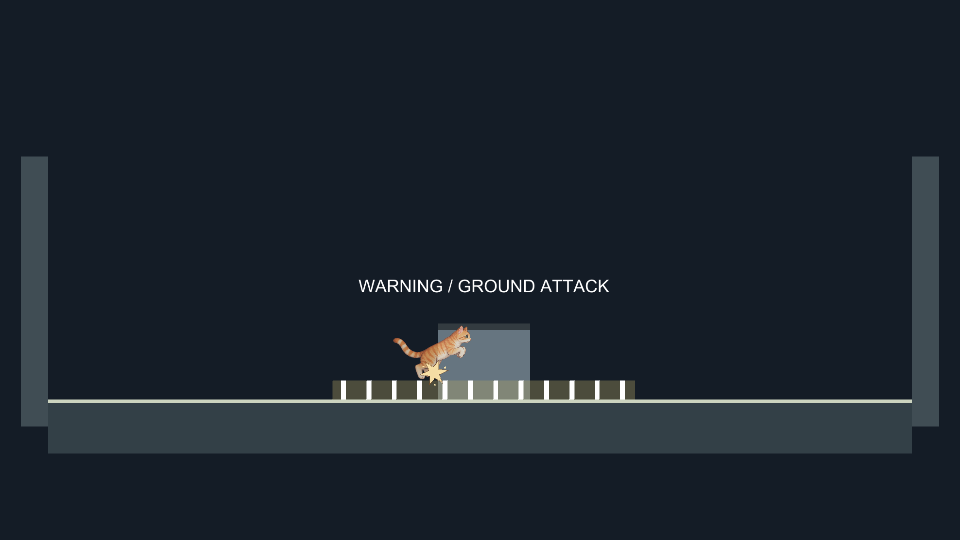
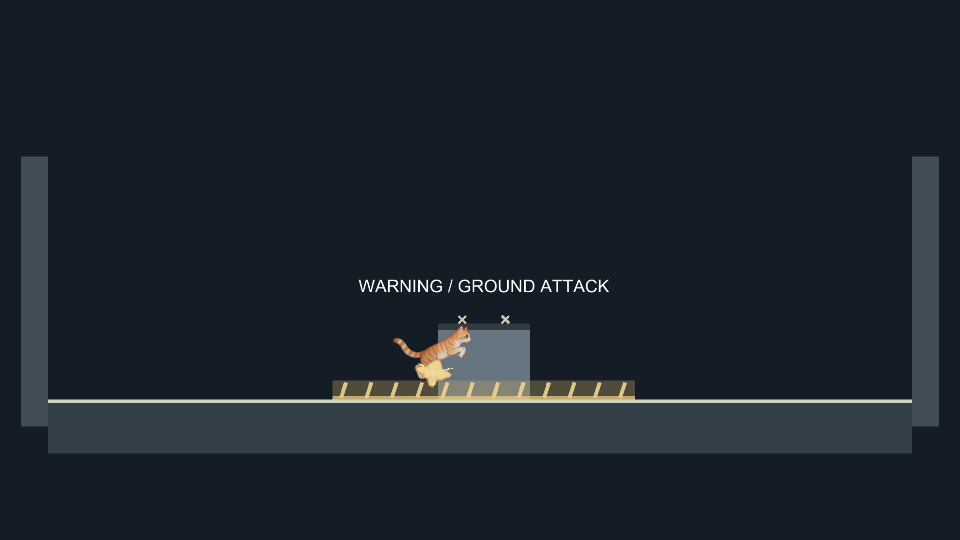
feat: clarify stomp attack signals and soften impact feedback

Changed region(s): [[0.3438, 0.6519, 0.6562, 0.7407]]

diff --git a/Assets/Game/Scripts/StompArena.cs b/Assets/Game/Scripts/StompArena.cs
@@ -11,10 +11,16 @@ public sealed class StompArena : MonoBehaviour
     public Camera ArenaCamera { get; private set; }
     Sprite square;
     Texture2D texture;
-    SpriteRenderer boss, head, warning, impact;
+    SpriteRenderer boss, head, warning;
+    MeshRenderer impact;
+    Material successCream;
     SpriteRenderer playerSprite;
     Color playerColor;
     TextMesh phaseLabel;
+    readonly SpriteRenderer[] headArrows = new SpriteRenderer[4];
+    readonly SpriteRenderer[] headLocks = new SpriteRenderer[4];
+    readonly SpriteRenderer[] attackMarks = new SpriteRenderer[10];
+    SpriteRenderer warningEdge;
     readonly System.Collections.Generic.List<SpriteRenderer> stripes = new System.Collections.Generic.List<SpriteRenderer>();
     Rigidbody2D body;
     Vector2 previous;
@@ -50,8 +56,18 @@ public sealed class StompArena : MonoBehaviour
             stripe.sortingOrder = 3;
             stripes.Add(stripe);
         }
-        impact = Block("Impact flash", Vector2.zero, Vector2.one * .3f, Color.white);
-        impact.sortingOrder = 5;
+        warningEdge = Block("Attack footprint edge", new Vector2(0, .035f), new Vector2(5.6f, .07f), Color.white);
+        warningEdge.sortingOrder = 4;
+        for (int i = 0; i < attackMarks.Length; i++) {
+            attackMarks[i] = Block("Active ground strike", Vector2.zero, Vector2.one, Color.white);
+            attackMarks[i].sortingOrder = 4;
+        }
+        for (int i = 0; i < 4; i++) {
+            headArrows[i] = Block("Open head chevron", Vector2.zero, new Vector2(.22f, .055f), Color.white);
+            headArrows[i].sortingOrder = 4;
+            headLocks[i] = Block("Closed head cross", Vector2.zero, new Vector2(.2f, .045f), Color.white);
+            headLocks[i].sortingOrder = 4;
+        }
         phaseLabel = new GameObject("Phase label").AddComponent<TextMesh>();
         phaseLabel.transform.SetParent(transform, false);
         phaseLabel.transform.localPosition = new Vector3(0, 2.1f);
@@ -134,6 +150,7 @@ public sealed class StompArena : MonoBehaviour
     void FixedUpdate()
     {
         if (Run.Paused) return;
+        flash = Mathf.Max(0, flash - Time.fixedDeltaTime);
         damageFlash = Mathf.Max(0, damageFlash - Time.fixedDeltaTime);
         burstTime = Mathf.Max(0, burstTime - Time.fixedDeltaTime);
         if (Combat.Finished) { Present(); return; }
@@ -164,7 +181,6 @@ public sealed class StompArena : MonoBehaviour
         previousTargetX = Combat.TargetX;
         Combat.Advance(Time.fixedDeltaTime);
         Run.Advance(Time.fixedDeltaTime);
-        flash = Mathf.Max(0, flash - Time.fixedDeltaTime);
         Present();
     }
     public void Retry() { Cat.RespawnAt(transform.TransformPoint(Run.Retry())); previous = transform.InverseTransformPoint(body.position); Present(); }
@@ -199,8 +215,10 @@ public sealed class StompArena : MonoBehaviour
         head.color = open ? Color.white : new Color(.2f, .23f, .25f);
         warning.enabled = !Combat.Finished && !open;
         warning.color = active ? new Color(1, .35f, .2f) : new Color(.7f, .65f, .4f, .35f);
-        foreach (var stripe in stripes) stripe.enabled = warning.enabled && !active;
+        PresentCombatSignals(open, active);
         impact.enabled = flash > 0;
+        impact.transform.localScale = new Vector3(Mathf.Lerp(.8f, .38f, flash / .16f), .35f, 1);
+        successCream.color = new Color(1, .95f, .74f, Mathf.Clamp01(flash / .1f));
         phaseLabel.text = Combat.Finished ? (Combat.BossHealth == 0 ? "TARGET DEFEATED" : "TRY AGAIN")
             : open ? "OPEN HEAD / JUMP NOW" : active ? "ATTACK / GROUND UNSAFE" : "WARNING / GROUND ATTACK";
     }
@@ -221,31 +239,46 @@ public sealed class StompArena : MonoBehaviour
     }
     void CreateDamageBurst()
     {
-        burstMesh = new Mesh { name = "Original six-point contact star" };
+        burstMesh = new Mesh { name = "Original soft irregular impact brush" };
         burstCream = new Material(Shader.Find("Sprites/Default"));
         burstBrown = new Material(Shader.Find("Sprites/Default"));
-        var vertices = new Vector3[13];
-        var triangles = new int[36];
-        // Uneven six-point outline: original geometry, not a borrowed explosion sprite.
-        for (int i = 0; i < 12; i++) {
-            float angle = (i * 30 + 9) * Mathf.Deg2Rad;
-            float radius = i % 2 == 0 ? .48f - (i % 3) * .025f : .19f;
-            vertices[i + 1] = new Vector2(Mathf.Cos(angle), Mathf.Sin(angle)) * radius;
-            triangles[i * 3] = 0;
-            triangles[i * 3 + 1] = (i + 1);
-            triangles[i * 3 + 2] = ((i + 1) % 12 + 1);
+        const int segments = 32;
+        var vertices = new Vector3[1 + segments * 2];
+        var colors = new Color[vertices.Length];
+        var triangles = new int[segments * 9];
+        colors[0] = Color.white;
+        // Opaque irregular center with a feathered rim; no repeated geometric star tips.
+        for (int i = 0; i < segments; i++) {
+            float angle = i * Mathf.PI * 2 / segments;
+            float radius = .24f + .17f * Mathf.Pow(Mathf.Abs(Mathf.Cos(2 * angle + .2f)), 5)
+                + .025f * Mathf.Sin(7 * angle);
+            Vector3 direction = new Vector3(Mathf.Cos(angle), Mathf.Sin(angle));
+            vertices[1 + i] = direction * radius;
+            vertices[1 + segments + i] = direction * (radius + .085f);
+            colors[1 + i] = new Color(1, .96f, .84f, .92f);
+            colors[1 + segments + i] = new Color(1, .88f, .65f, 0);
+            int next = (i + 1) % segments;
+            int t = i * 9;
+            triangles[t] = 0; triangles[t + 1] = 1 + i; triangles[t + 2] = 1 + next;
+            triangles[t + 3] = 1 + i; triangles[t + 4] = 1 + segments + i; triangles[t + 5] = 1 + next;
+            triangles[t + 6] = 1 + next; triangles[t + 7] = 1 + segments + i; triangles[t + 8] = 1 + segments + next;
         }
         burstMesh.vertices = vertices;
+        burstMesh.colors = colors;
         burstMesh.triangles = triangles;
         burstMesh.uv = new Vector2[vertices.Length];
         burstMesh.RecalculateBounds();
-        damageBurst = new GameObject("Damage contact star").transform;
+        damageBurst = new GameObject("Soft damage contact burst").transform;
         damageBurst.SetParent(transform, false);
-        burstOutline = BurstPart("Warm outline", 6);
+        burstOutline = BurstPart("Warm impact rim", 6);
         burstOutline.sharedMaterial = burstBrown;
         burstOutline.transform.localScale = Vector3.one * 1.12f;
-        burstFill = BurstPart("Cream impact star", 7);
-        for (int i = 0; i < sparks.Length; i++) sparks[i] = BurstPart("Small impact spark", 7);
+        burstFill = BurstPart("Cream impact brush", 7);
+        for (int i = 0; i < sparks.Length; i++) sparks[i] = BurstPart("Short impact brush stroke", 7);
+        impact = BurstPart("Successful head impact brush", 5);
+        impact.transform.SetParent(transform, false);
+        successCream = new Material(burstCream);
+        impact.sharedMaterial = successCream;
     }
     MeshRenderer BurstPart(string name, int order)
     {
@@ -263,13 +296,60 @@ public sealed class StompArena : MonoBehaviour
         if (burstTime <= 0) return;
         float t = 1 - burstTime / DamageBurstDuration;
         float alpha = 1 - t * t;
-        damageBurst.localScale = Vector3.one * Mathf.Lerp(.38f, .66f, Mathf.Sqrt(t));
+        float opening = Mathf.SmoothStep(0, 1, Mathf.Clamp01(t / .3f));
+        damageBurst.localScale = new Vector3(Mathf.Lerp(.34f, .76f, opening), Mathf.Lerp(.48f, .58f, opening), 1);
+        damageBurst.localRotation = Quaternion.Euler(0, 0, Mathf.Lerp(-12, 7, t));
         burstCream.color = new Color(1, .91f, .68f, alpha);
-        burstBrown.color = new Color(.48f, .31f, .16f, alpha * .8f);
+        burstBrown.color = new Color(.48f, .31f, .16f, alpha * .45f);
         for (int i = 0; i < sparks.Length; i++) {
             float angle = (i * 125 + 25) * Mathf.Deg2Rad;
-            sparks[i].transform.localPosition = new Vector3(Mathf.Cos(angle), Mathf.Sin(angle), 0) * Mathf.Lerp(.34f, .68f, t);
-            sparks[i].transform.localScale = Vector3.one * Mathf.Lerp(.14f, .04f, t);
+            sparks[i].transform.localPosition = new Vector3(Mathf.Cos(angle), Mathf.Sin(angle), 0) * Mathf.Lerp(.26f, .66f, t);
+            sparks[i].transform.localScale = new Vector3(Mathf.Lerp(.09f, .025f, t), Mathf.Lerp(.4f - i * .06f, .12f, t), 1);
+            sparks[i].transform.localRotation = Quaternion.Euler(0, 0, angle * Mathf.Rad2Deg - 90);
+        }
+    }
+    void PresentCombatSignals(bool open, bool active)
+    {
+        float x = Combat.TargetX;
+        bool live = !Combat.Finished;
+        float progress = Mathf.Clamp01(Combat.PhaseTime / Combat.Duration);
+        // The integrated phase clock accelerates warning pulses without a phase reset.
+        float pulse = .5f + .5f * Mathf.Sin(Mathf.PI * 2 * (2 * Combat.PhaseTime + 3 * Combat.PhaseTime * progress));
+        warning.color = active ? new Color(.95f, .44f, .22f, .85f)
+            : new Color(.73f, .64f, .39f, .15f + pulse * .24f);
+        warningEdge.enabled = live && !open;
+        warningEdge.transform.localPosition = new Vector3(x, .035f);
+        warningEdge.color = active ? new Color(1, .9f, .64f) : new Color(.92f, .8f, .52f, .3f + .5f * pulse);
+        for (int i = 0; i < stripes.Count; i++) {
+            var stripe = stripes[i];
+            stripe.enabled = live && !open && !active;
+            stripe.transform.localPosition = new Vector3(x - 2.6f + i * .47f, .175f);
+            stripe.transform.localScale = new Vector3(.07f + .035f * progress, .3f, 1);
+            stripe.transform.localRotation = Quaternion.Euler(0, 0, -18);
+            stripe.color = new Color(.95f, .84f, .59f, .35f + .6f * pulse);
+        }
+        for (int i = 0; i < attackMarks.Length; i++) {
+            var mark = attackMarks[i];
+            mark.enabled = live && active;
+            // Entire stroke stays inside the actual 0..0.35-high collision band.
+            float height = Mathf.Lerp(.32f, .12f, progress) * (i % 2 == 0 ? 1 : .75f);
+            mark.transform.localPosition = new Vector3(x - 2.5f + i * .55f, height * .5f);
+            mark.transform.localScale = new Vector3(.055f, height, 1);
+            mark.color = new Color(1, .91f, .7f, 1 - .3f * progress);
+        }
+        for (int i = 0; i < 4; i++) {
+            var arrow = headArrows[i];
+            arrow.enabled = live && open;
+            int pair = i / 2;
+            float bob = .035f * Mathf.Sin(Combat.PhaseTime * 9);
+            arrow.transform.localPosition = new Vector3(x + (pair == 0 ? -.4f : .4f) + (i % 2 == 0 ? -.075f : .075f), 1.7f + bob);
+            arrow.transform.localRotation = Quaternion.Euler(0, 0, i % 2 == 0 ? -35 : 35);
+            arrow.color = new Color(1, .92f, .7f);
+            var cross = headLocks[i];
+            cross.enabled = live && !open;
+            cross.transform.localPosition = new Vector3(x + (pair == 0 ? -.4f : .4f), 1.48f);
+            cross.transform.localRotation = Quaternion.Euler(0, 0, i % 2 == 0 ? -45 : 45);
+            cross.color = new Color(.78f, .78f, .7f);
         }
     }
     void OnDisable()
@@ -278,7 +358,7 @@ public sealed class StompArena : MonoBehaviour
     }
     void OnDestroy()
     {
-        if (Application.isPlaying) { Destroy(square); Destroy(texture); Destroy(damageMaterial); Destroy(burstMesh); Destroy(burstCream); Destroy(burstBrown); }
-        else { DestroyImmediate(square); DestroyImmediate(texture); DestroyImmediate(damageMaterial); DestroyImmediate(burstMesh); DestroyImmediate(burstCream); DestroyImmediate(burstBrown); }
+        if (Application.isPlaying) { Destroy(square); Destroy(texture); Destroy(damageMaterial); Destroy(burstMesh); Destroy(burstCream); Destroy(burstBrown); Destroy(successCream); }
+        else { DestroyImmediate(square); DestroyImmediate(texture); DestroyImmediate(damageMaterial); DestroyImmediate(burstMesh); DestroyImmediate(burstCream); DestroyImmediate(burstBrown); DestroyImmediate(successCream); }
     }
 }

diff --git a/Assets/Game/Tests/Editor/StompCombatTests.cs b/Assets/Game/Tests/Editor/StompCombatTests.cs
@@ -212,4 +212,41 @@ public class StompCombatTests
             previousX = x;
         }
     }
+    [Test] public void SignalsFollowTheExactAttackAndRecoveryState()
+    {
+        var root = new GameObject("Stomp signal state test");
+        try {
+            var arenaType = type.Assembly.GetType("StompArena");
+            var arena = root.AddComponent(arenaType);
+            var flags = System.Reflection.BindingFlags.Instance | System.Reflection.BindingFlags.NonPublic;
+            arenaType.GetMethod("Awake", flags).Invoke(arena, null);
+            var cat = (Component)arenaType.GetProperty("Cat").GetValue(arena);
+            cat.GetType().GetMethod("Awake", flags).Invoke(cat, null);
+            var input = cat.GetComponent(type.Assembly.GetType("CatInput"));
+            input.GetType().GetMethod("Awake", flags).Invoke(input, null);
+            var state = arenaType.GetField("Combat").GetValue(arena);
+            var present = arenaType.GetMethod("Present", flags);
+            var arrows = (SpriteRenderer[])arenaType.GetField("headArrows", flags).GetValue(arena);
+            var locks = (SpriteRenderer[])arenaType.GetField("headLocks", flags).GetValue(arena);
+            var marks = (SpriteRenderer[])arenaType.GetField("attackMarks", flags).GetValue(arena);
+            Assert.That(locks.All(r => r.enabled), Is.True);
+            Assert.That(arrows.Any(r => r.enabled) || marks.Any(r => r.enabled), Is.False);
+            type.GetMethod("Advance").Invoke(state, new object[] { 1.2f });
+            present.Invoke(arena, null);
+            Assert.That(marks.All(r => r.enabled), Is.True);
+            foreach (var mark in marks) {
+                float half = mark.transform.localScale.y * .5f;
+                Assert.That(mark.transform.localPosition.y - half, Is.GreaterThanOrEqualTo(0));
+                Assert.That(mark.transform.localPosition.y + half, Is.LessThanOrEqualTo(.35f));
+            }
+            type.GetMethod("Advance").Invoke(state, new object[] { .351f });
+            present.Invoke(arena, null);
+            Assert.That(arrows.All(r => r.enabled), Is.True);
+            Assert.That(locks.Any(r => r.enabled) || marks.Any(r => r.enabled), Is.False);
+            arenaType.GetMethod("Retry").Invoke(arena, null);
+            Assert.That(locks.All(r => r.enabled), Is.True);
+            Assert.That(arrows.Any(r => r.enabled), Is.False);
+        } finally { UnityEngine.Object.DestroyImmediate(root); }
+    }
+
 }

diff --git a/Assets/Game/Editor/StompReview.cs b/Assets/Game/Editor/StompReview.cs
@@ -62,13 +62,13 @@ public static class StompReview
                 File.WriteAllBytes("docs/design/stomp-prototype/" + phase + ".png", pixels.EncodeToPNG());
                 arena.Combat.Advance(phase == "anticipation" ? StompCombat.Anticipation : StompCombat.Active);
             }
-            foreach (var scenario in new[] { "left", "right", "closed-head", "ground", "moving-head", "run-right", "run-left" }) {
+            foreach (var scenario in new[] { "left", "right", "closed-head", "ground", "moving-head", "run-right", "run-left", "signals" }) {
                 arena.Retry();
                 arena.Cat.GetComponent<CatInput>().enabled = false;
                 var body = arena.Cat.GetComponent<Rigidbody2D>();
                 body.interpolation = RigidbodyInterpolation2D.None;
                 if (scenario == "moving-head") arena.Combat.Advance(1.56f);
-                body.position = scenario == "moving-head" ? new Vector2(arena.Combat.TargetX, 3.4f) : (scenario == "right" || scenario == "run-left") ? new Vector2(1.1f, .5f)
+                body.position = scenario == "signals" ? new Vector2(-5, .5f) : scenario == "moving-head" ? new Vector2(arena.Combat.TargetX, 3.4f) : (scenario == "right" || scenario == "run-left") ? new Vector2(1.1f, .5f)
                     : scenario == "closed-head" ? new Vector2(-.2f, 1.7f)
                     : scenario == "ground" ? new Vector2(-2, .5f) : new Vector2(-1.1f, .5f);
                 if (scenario == "run-right" || scenario == "run-left") {
@@ -90,7 +90,7 @@ public static class StompReview
                 string frames = "Logs/stomp-damage-frames/" + scenario;
                 Directory.CreateDirectory(frames);
                 var csv = new System.Text.StringBuilder("frame,time,x,y,targetX,bossHealth,health,protection,alpha,velocityX,velocityY,burstTime,contactX,contactY\n");
-                for (int frame = 0; frame < (scenario == "moving-head" ? 150 : 80); frame++) {
+                for (int frame = 0; frame < (scenario == "signals" ? 180 : scenario == "moving-head" ? 150 : 80); frame++) {
                     if (frame > 0) {
                         motorStep.Invoke(arena.Cat, null);
                         scene.GetPhysicsScene2D().Simulate(Time.fixedDeltaTime);

diff --git a/docs/design/stomp-prototype/README.md b/docs/design/stomp-prototype/README.md
@@ -16,7 +16,7 @@ The timing, patrol and health values remain prototype tuning for user review. A 
 
 Damage preserves horizontal velocity and applies only an upward velocity of 7 units/second. Held movement remains active; no forced direction change, horizontal stop, lateral impulse or teleport occurs. Releasing jump does not shorten the automatic hop. Side contact, closed-head contact and the active ground band can cause damage.
 
-A small original six-point cream contact star with a warm outline and three tiny sparks opens and fades over 0.15 seconds. It appears on the contacted boss/hazard surface at the collision sample, stays at that arena-space point instead of following either character, and has no collider. High-speed crossings use the swept contact; existing overlaps use the nearest surface point. The star uses native mesh geometry and contains no imported image. A reduced 35%-strength white flash fades over 80 ms so it does not compete with the star. No camera shake or hitstop is added.
+A small original irregular cream contact burst with a feathered warm rim and three tapered brush strokes opens and fades over 0.15 seconds. It appears on the contacted boss/hazard surface at the collision sample, stays at that arena-space point instead of following either character, and has no collider. High-speed crossings use the swept contact; existing overlaps use the nearest surface point. The burst uses native mesh geometry with a vertex-alpha feathered rim and contains no imported image. Its brief opening changes width/height separately and rotates slightly; the smaller strokes travel out and taper away. A reduced 35%-strength white flash fades over 80 ms so it does not compete with the star. No camera shake or hitstop is added.
 
 Damage gives 1.25 seconds of protection. Mika gently pulses between original and half opacity every 0.25 seconds and never disappears. Protected contact causes no extra damage, hop or effect restart. Pause freezes physics, combat and effects. Retry/restart clear all transient feedback and restore the original sprite color. Effects finish fading after a terminal hit; win/loss retain Retry and Menu.
 
@@ -45,15 +45,27 @@ These three rejected original unpitched noise-based proposals have comparable RM
 2. [Muted tap](sound-options/muted-tap.wav): shorter, slightly clearer tap, 85 ms.
 3. [Soft rustle](sound-options/soft-rustle.wav): airy fabric-like contact, 140 ms.
 
+
+## Refined combat signals
+
+Warning uses diagonal hatching, a low footprint edge and increasingly close pulses. The closed head has two small cross marks in addition to its dark cap. The active ground attack replaces hatching with a solid band and short upright strike marks; every strike mark stays inside the actual 0..0.35-high hazard. Recovery removes the ground warning and replaces head crosses with two downward chevrons over the existing white contact edge. Marks track the moving target; their visibility changes directly with combat phase, including the exact open/closed transition. Pause freezes their animation because it uses combat time. No health UI or collision geometry was added.
+
+Successful head hits use the same softly feathered brush shape in a short restrained landing accent rather than the former white square. Damage keeps its separate warm burst, selected cat voice and protection feedback.
+
+![Warning, attack and open-head cycle](damage-signals.gif)
+![Small grayscale signal review](signals-small-grayscale.gif)
+
+The current signals and contact burst were captured in Unity 6000.3.27f2 Play Mode with exit code 0. The first isolated startup failed before logging; a retry with fewer worker threads and Direct3D 11 completed without C# exceptions or shader errors. Both user-owned Editors stayed open. Color frames and the 480-pixel-wide grayscale recovery view were inspected: crosses, upright attack marks and downward chevrons distinguish states without relying on hue. The small grayscale GIF is a downscaled camera capture, not a live small-window/input playtest. Existing movement/health/protection CSV traces remained unchanged; a new signals trace records the complete cycle. Regression sources additionally check phase-specific marker visibility and active marks staying inside hazard height; the suite has not been run.
+
 ## Controls and reuse
 
 Move/jump use the existing shared keyboard/controller actions, without a stomp button or device polling in combat. Retry: R / controller Select. Full restart: Backspace / controller LB. Pause: P / controller RB. Menu: Esc / controller Start. Retry and restart restore target health, patrol and phase, player health, movement/input state, protection and effects via RunLifecycle.ResetTransientState. Touch UI/mobile builds are outside this issue. Default unit scale and translation are supported; rotation/scaled placement is not a tuning contract.
 
 ## Evidence and validation
 
-Run `StompReview.Record` in Unity 6000.3.27f2 to reproduce camera captures and CSVs. Phase screenshots explicitly advance state; seven motion sequences advance the real motor, isolated local 2D physics scene and combat. The running sequences feed shared motion values and preserve held direction through contact. CSVs record player/target position, health, protection, opacity, velocity and effect lifetime/contact position. The moving-head sequence starts above an open target to isolate hit detection and bounce. Camera captures exclude the GUI; GIF loops restart the demonstration and are not in-game teleports.
+Run `StompReview.Record` in Unity 6000.3.27f2 to reproduce camera captures and CSVs. Phase screenshots explicitly advance state; eight motion sequences advance the real motor, isolated local 2D physics scene and combat. The running sequences feed shared motion values and preserve held direction through contact. CSVs record player/target position, health, protection, opacity, velocity and effect lifetime/contact position. The moving-head sequence starts above an open target to isolate hit detection and bounce. Camera captures exclude the GUI; GIF loops restart the demonstration and are not in-game teleports.
 
-Compilation of runtime and regression sources plus the seven Play Mode captures completed with exit code 0 in an isolated review project with its own Library. The right-running trace starts at x=-1.1 with velocity (7,7) on damage, then x=-0.96 with velocity (7,6.4); left-running mirrors this without a direction reversal. The star remains at x=-0.85/+0.85 while its timer decreases. Captured contact-star rendering was visually inspected. The sound previews were checked for PCM format, duration, RMS and peak levels; subjective listening remains a user decision.
+Compilation of runtime and regression sources plus the eight Play Mode captures completed with exit code 0 in an isolated review project with its own Library. The right-running trace starts at x=-1.1 with velocity (7,7) on damage, then x=-0.96 with velocity (7,6.4); left-running mirrors this without a direction reversal. The star remains at x=-0.85/+0.85 while its timer decreases. Captured contact-star rendering was visually inspected. The sound previews were checked for PCM format, duration, RMS and peak levels; subjective listening remains a user decision.
 
 Regression sources cover top/side/closed windows, moving-head sweeps, protection expiry, preserved horizontal velocity, held run direction, hop release behavior, effect placement without retrigger, pause and retry cleanup. Automated tests and Windows/Linux player/launcher builds have not been run and remain part of final Prepare merge. Manual gameplay, small-window/grayscale review, integrated audio playback and overall encounter acceptance remain pending. Keep PR #62 draft and #12 open until review and final exact-head validation complete.
 
@@ -61,7 +73,7 @@ Regression sources cover top/side/closed windows, moving-head sweeps, protection
 
 Started from main 989840a. Ownership covers new combat/arena/review/test code and narrow controller launch/menu entry integration. No overlap was identified with #51 (Blender authoring), #53 (reward design) or #59 (CI). Existing scenes, prefabs, packages, project settings, movement course and character artwork are preserved. No shared mutable Library is used for review captures. Review newer merged changes and merge main normally before readiness; no merge or release is authorized here.
 
-User decisions on 2026-10-31: reject damage teleport; select short protection with transparency pulse; select a moving vulnerable head; exclude new heart-loss/health UI; reject the first tone and lateral recoil; preserve running with an upward-only damage hop; request sound alternatives and approve a small contact star with restrained flash. Earlier implementation screenshots/commits are historical, not acceptance of superseded feedback. Provenance is in ASSETS.md.
+User decisions on 2026-10-31: reject damage teleport; select short protection with transparency pulse; select a moving vulnerable head; exclude new heart-loss/health UI; reject the first tone and lateral recoil; preserve running with an upward-only damage hop; request sound alternatives and approve a small contact star with restrained flash; select the compact real-cat voice; request a softer contact effect and clearer combat signals. Earlier implementation screenshots/commits are historical, not acceptance of superseded feedback. Provenance is in ASSETS.md.
 
 ### Selected-audio integration
 

diff --git a/ASSETS.md b/ASSETS.md
@@ -513,3 +513,5 @@ See docs/design/background-study/review-2026-10-31.md for tests and limitations.
 - Real-cat vocal auditions (2026-10-31): **Cat Angry Meow.WAV** by **softcoresoft**, https://freesound.org/people/softcoresoft/sounds/327438/, licensed **CC BY 4.0**, https://creativecommons.org/licenses/by/4.0/. Actual cat hissing/meowing per creator; no AI generator/model. Public HQ source preview retained in `docs/design/stomp-prototype/sound-options/real-cat/` with hashes/attribution. Codex prepared source seconds 0.9-2.1 as a natural-speed 1.2-second excerpt and a pitch-preserving 4/3-tempo 0.9-second edit; mono PCM16/48 kHz, short fades and gain 0.65. Reproduce via `tools/prepare-real-cat-preview.py`. Human direction rejected the previous human-voice clip as too short/not cat-like and requested a real-cat voice with a longer recognizable ending. Both new auditions remain unselected and are not enabled in gameplay; attribution and modification disclosure must accompany redistribution.
 
 - Selected damage voice (2026-10-31): user chose the second real-cat audition, `real-cat/short-reaction.wav` (0.9 seconds), copied unchanged to `Assets/Game/Resources/StompDamageVoice.wav`. **Cat Angry Meow.WAV** by **softcoresoft**, source https://freesound.org/people/softcoresoft/sounds/327438/, **CC BY 4.0**, https://creativecommons.org/licenses/by/4.0/. Edits remain the source 0.9-2.1-second excerpt, pitch-preserving 4/3 tempo, mono PCM16/48 kHz, short fades and gain 0.65; gameplay volume is 0.5. Editor import preloads PCM. Attribution and edit disclosure are bundled in `Assets/StreamingAssets/THIRD-PARTY-NOTICES.txt` for player redistribution. Prior audition-only status is superseded for this selected clip; all rejected variants remain inactive.
+
+- Combat-signal refinement (2026-10-31): user requested both a better contact effect and clearer warning/attack/open-head cues. Codex (GPT-6) authored original native mesh geometry with an irregular feathered cream core, warm rim and tapered brush strokes, plus closed-head crosses, open-head chevrons, pulsing diagonal hatching and active strike marks within the collision band. No raster generator, external art or new audio was used; existing source artwork and selected voice remain unchanged. Prototype code follows the repository code license. `damage-signals.gif`, `signals-small-grayscale.gif`, refreshed contact/movement captures and the grayscale recovery PNG derive from actual Unity camera renders; FFmpeg creates the scaled/grayscale review copies. These are review evidence, not accepted production boss art.
